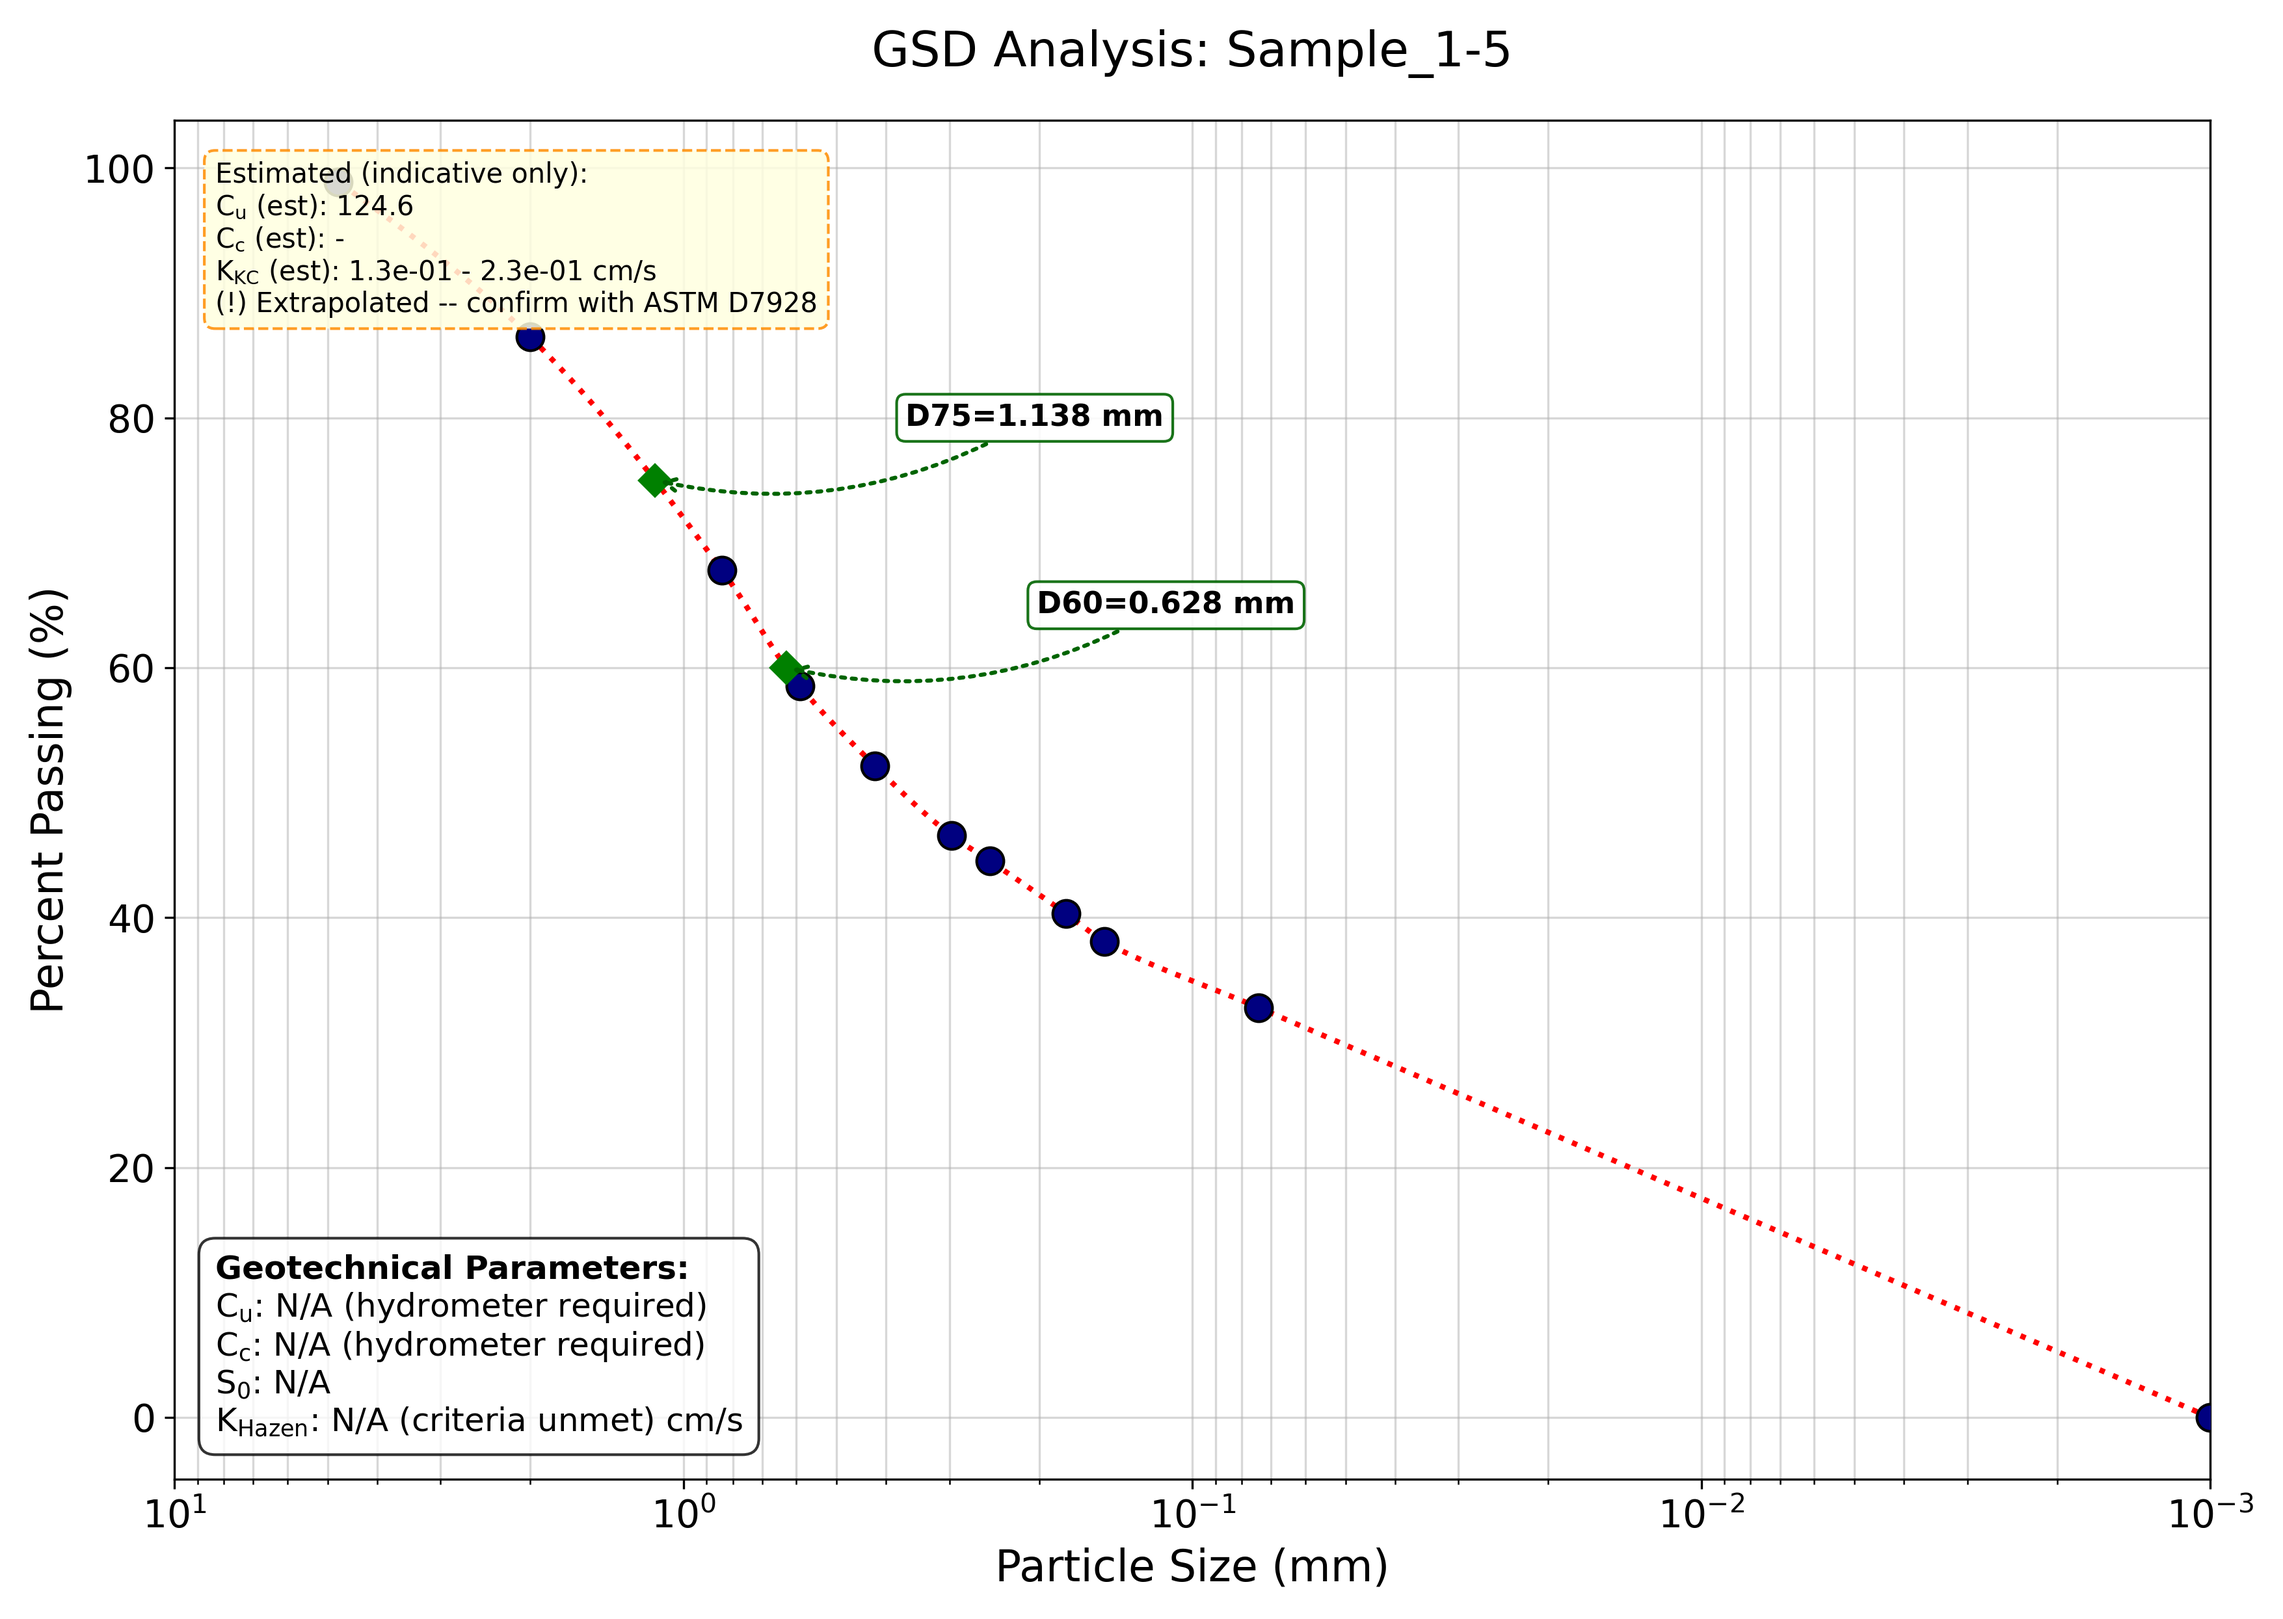
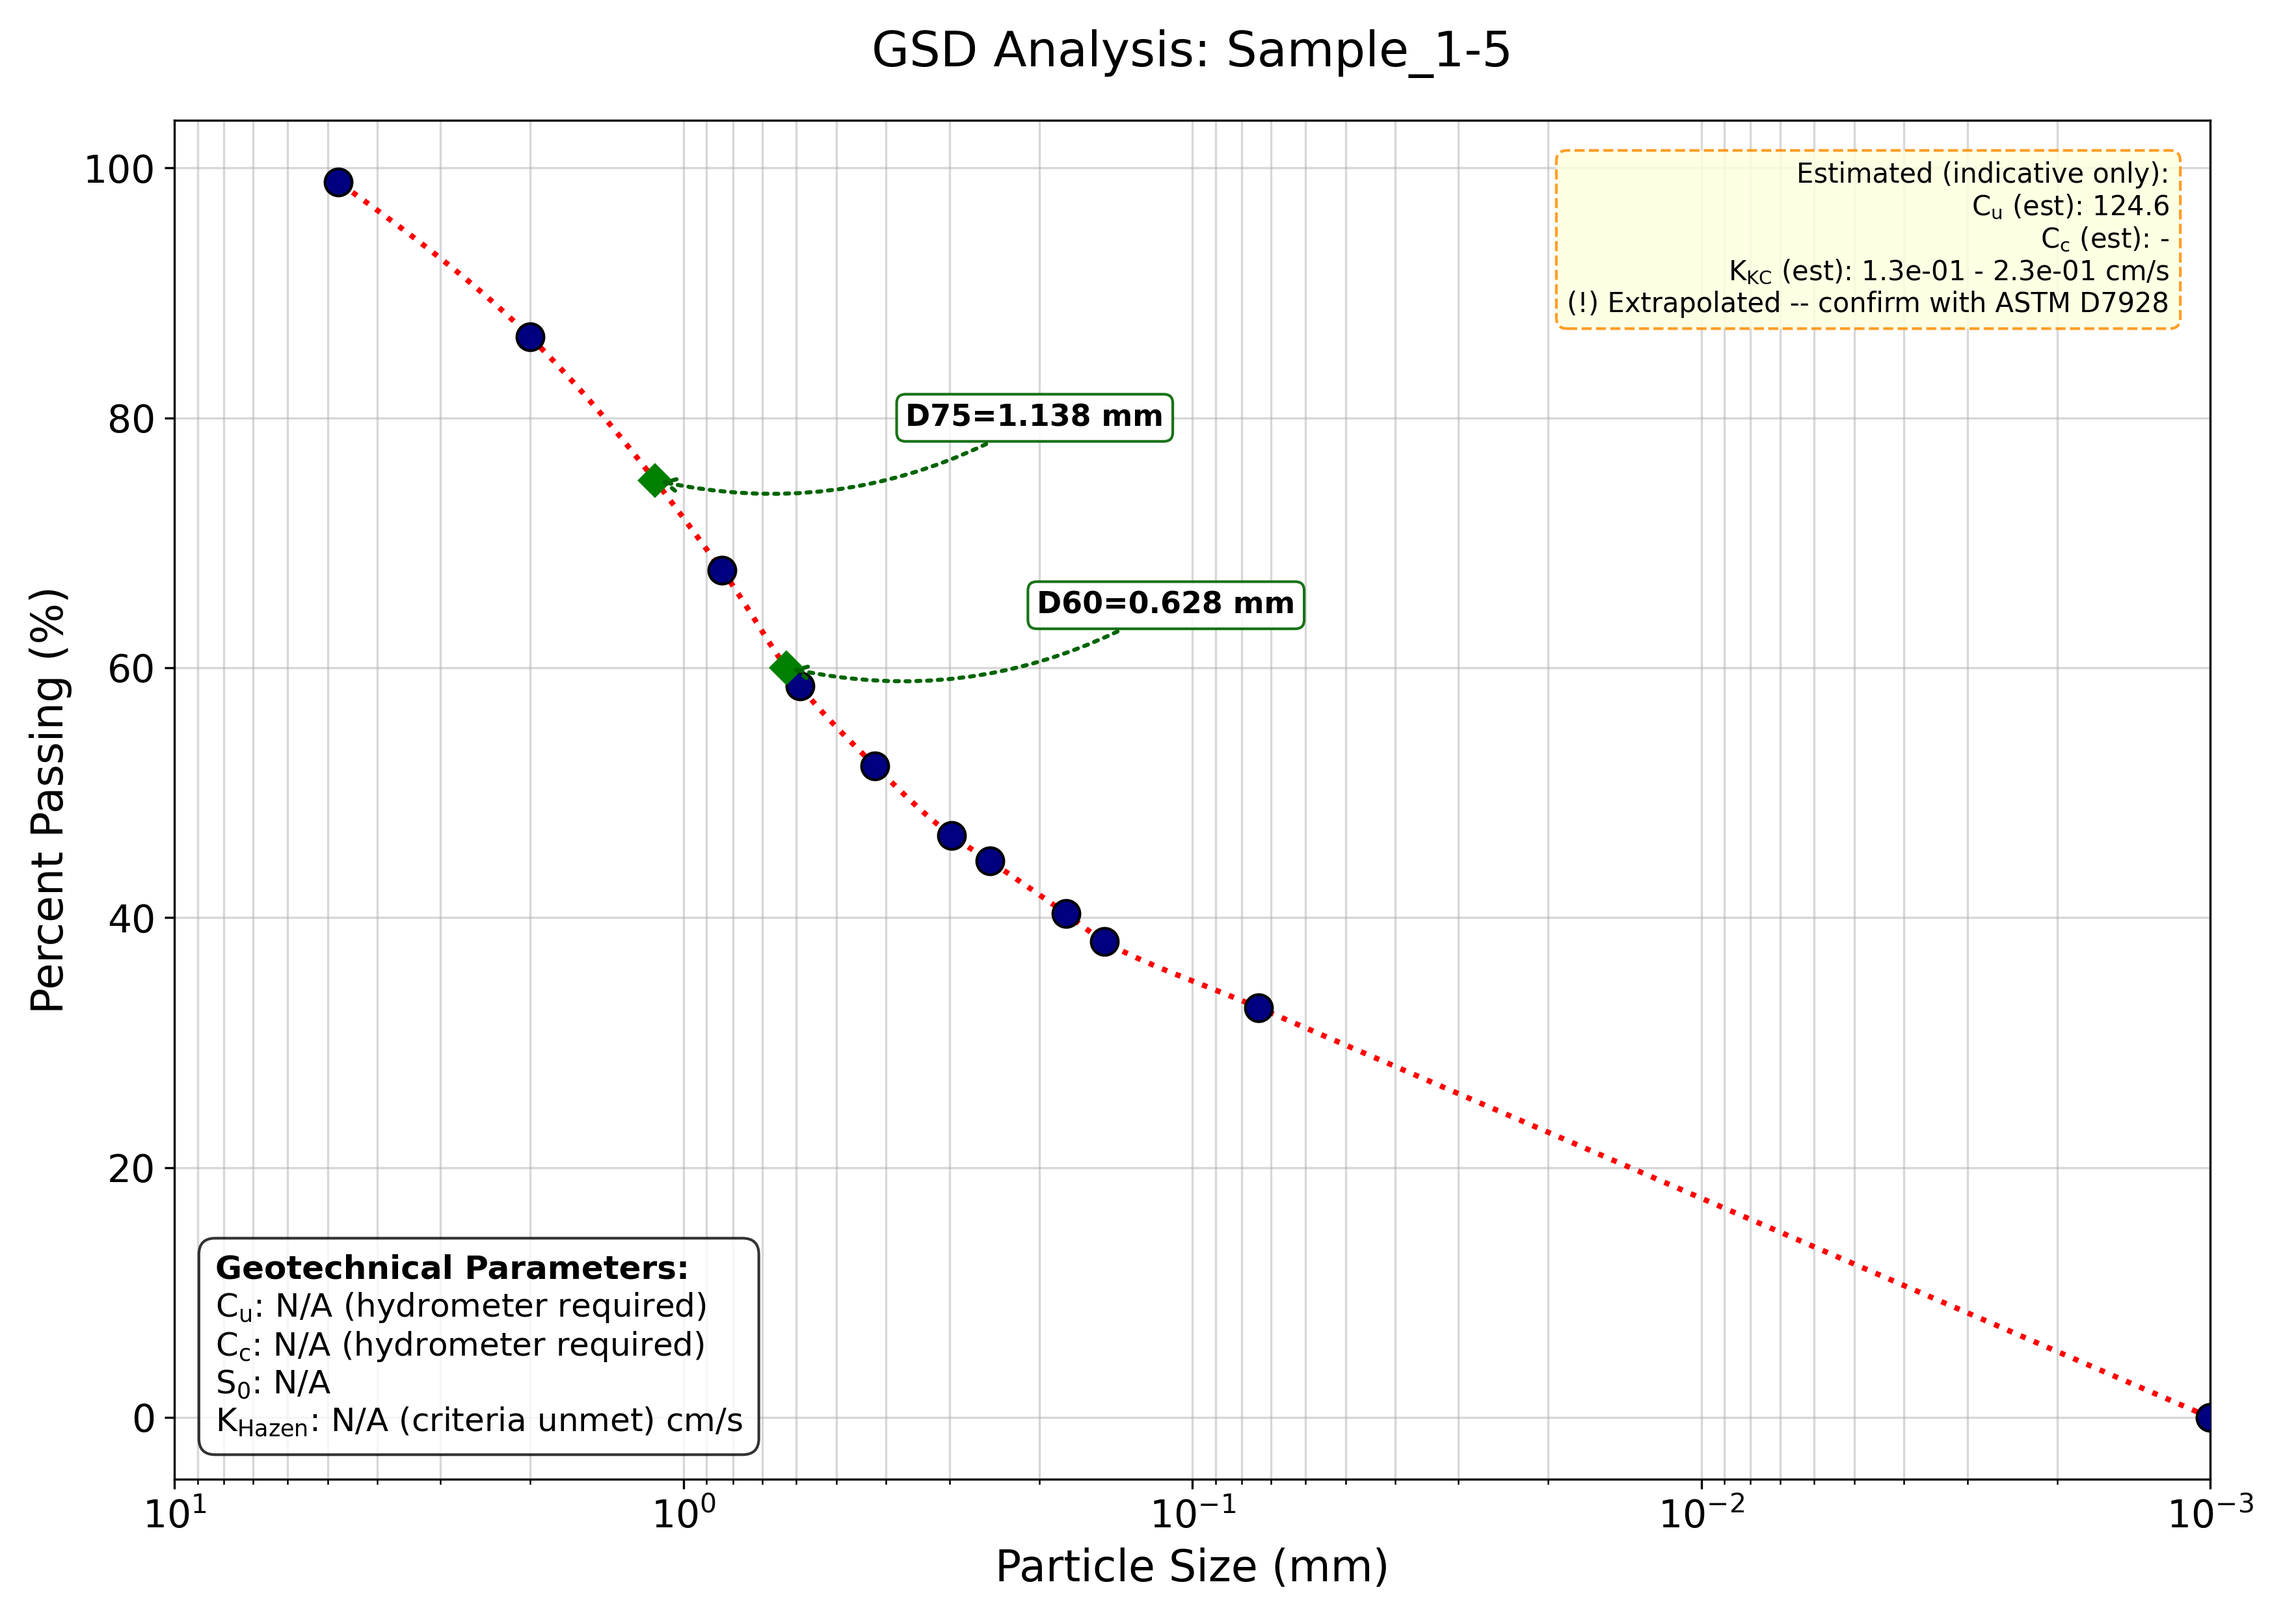
Move estimated-parameters box to top-right corner of GSD plots
The dashed orange 'Estimated (indicative only)' text box was previously
placed at top-left (x=0.02), overlapping the Dx annotations for some
samples. Relocated to top-right (x=0.98, ha='right') so it no longer
competes visually with the GSD curve labels.

Regenerated all 12 GSD plots (7 Site_1 + 5 Site_8) with the new layout.

Changed region(s): [[0.0621, 0.0928, 0.3726, 0.2165], [0.6832, 0.0928, 0.9627, 0.2165]]

diff --git a/sieve_analysis_test.py b/sieve_analysis_test.py
@@ -268,9 +268,9 @@ def plot_gsd(df, dx_values, coeffs, title="Grain Size Distribution", estimated=N
             "(!) Extrapolated -- confirm with ASTM D7928"
         )
         ax.text(
-            0.02, 0.97, est_text,
+            0.98, 0.97, est_text,
             transform=ax.transAxes, fontsize=10,
-            verticalalignment="top",
+            verticalalignment="top", horizontalalignment="right",
             bbox=dict(boxstyle="round,pad=0.4", fc="lightyellow",
                       ec="darkorange", alpha=0.85, linestyle="--"),
             zorder=11
